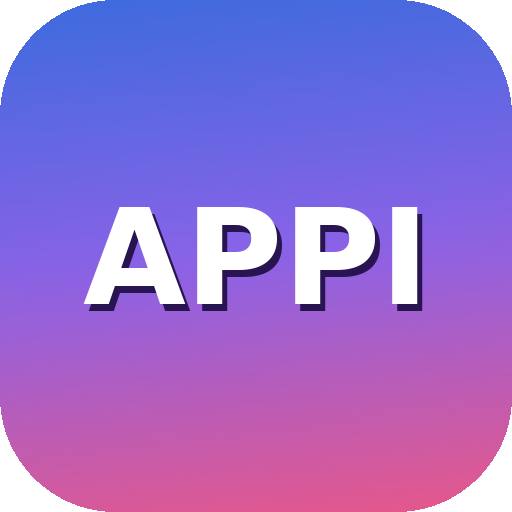
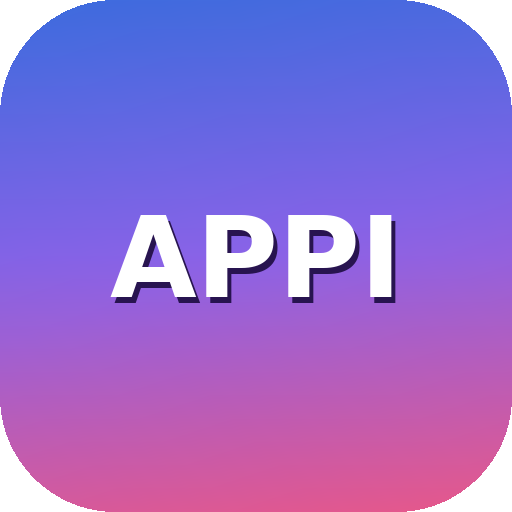
v239 Icono del escritorio mas chico: texto al 58% del ancho

Changed region(s): [[0.1562, 0.4062, 0.8438, 0.625]]

diff --git a/index.html b/index.html
@@ -3535,7 +3535,7 @@ body.dark #bootScreen{background:#101322}
     <button class="ds-btn" data-ds="view-grabadora" onclick="openGrabadora()"><span>🎙</span> Grabadora</button>
     <button class="ds-btn" data-ds="view-notas" onclick="showView('view-notas')"><span>📝</span> Notas Keep</button>
   </nav>
-  <div class="ds-foot">APPI · v238 · Legible en todo launcher</div>
+  <div class="ds-foot">APPI · v239 · Ícono respirando</div>
 </aside>
 <!-- Botón flotante para reabrir la barra (cuando está oculta) - oculto, reemplazado por nuevo -->
 <button class="ds-reopen" style="display:none !important" id="dsReopenBtn" onclick="toggleSidebar()" title="Abrir barra lateral" aria-label="Abrir barra lateral">☰</button>

diff --git a/service-worker.js b/service-worker.js
@@ -1,4 +1,4 @@
-const CACHE_NAME = 'appi-v238-zona-segura';
+const CACHE_NAME = 'appi-v239-icono-respirando';
 const CACHE_PREFIX = 'appi-';
 const APP_SHELL = [
   './',

diff --git a/README.md b/README.md
@@ -4,7 +4,7 @@ PWA local-first para planificación mensual, presupuesto, equipo, garantías, co
 
 ## Estado actual
 
-- Versión: **v238 · Legible en todo launcher**.
+- Versión: **v239 · Ícono respirando**.
 - Publicación: [https://somospopups.github.io/appi/](https://somospopups.github.io/appi/)
 - Acceso por número de distribuidor y contraseña.
 - Acceso administrador POPUPS mediante el candado, sin DIP ni número de distribuidor.
